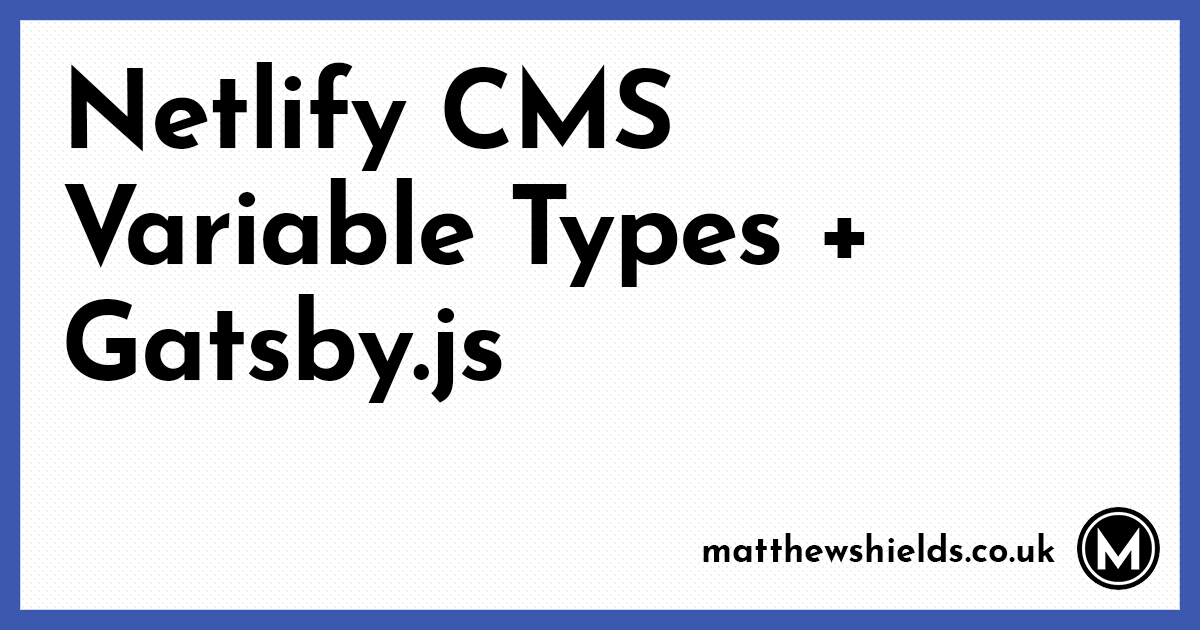
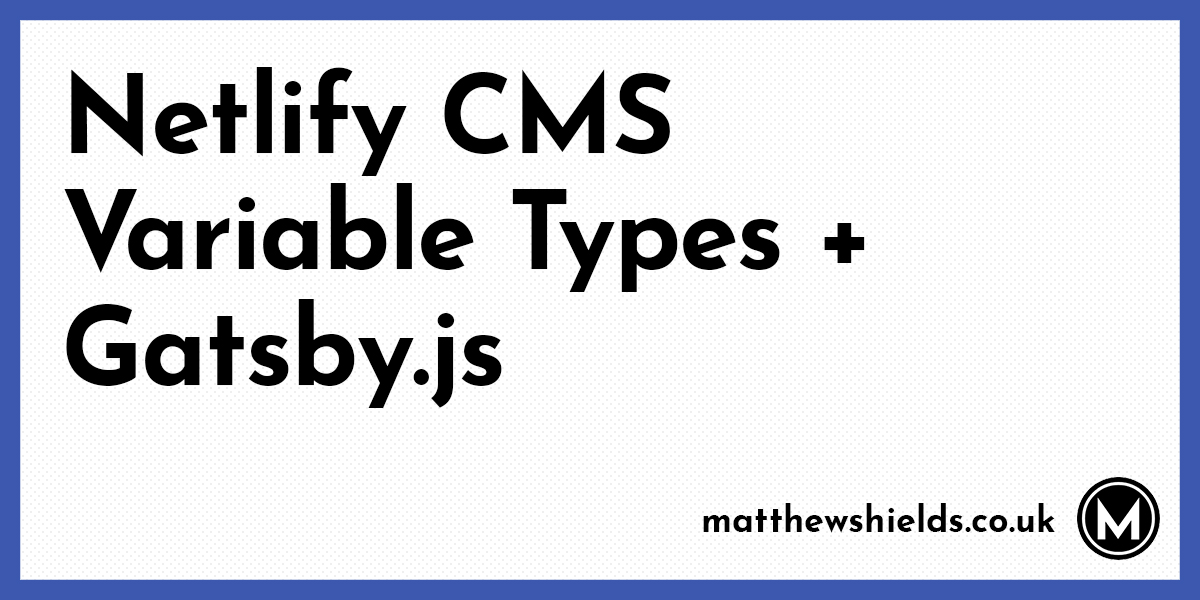
change social image size and date

diff --git a/content/writing/2020-03-29-in-a-day-challenge-1-netlify-cms-variable-types-gatsby.md.md b/content/writing/2020-03-29-in-a-day-challenge-1-netlify-cms-variable-types-gatsby.md.md
@@ -6,7 +6,7 @@ short_description: >-
   Netlify CMS site. In this post I break down how I approached this using
   Netlify CMS's Variable Types, and what you would have to do to achieve the
   same thing.
-date: 2020-03-29T18:12:27.948Z
+date: 2020-04-08T18:12:27.948Z
 social_image: netlify-cms-variable-types-gatsby.jpg
 slug: netlify-cms-variable-types-gatsby
 ---
